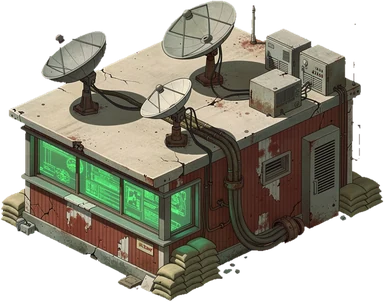
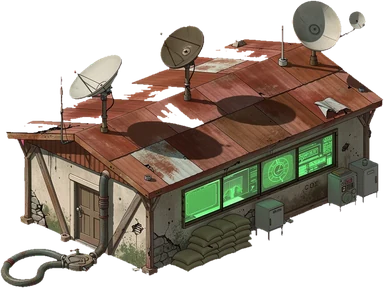
Rebuild four facilities with the scale anchor; fix left-click on guns
The scale anchor works. Power generator, storage, communication center
and radio tower are regenerated with a drum in frame and dimensions in
metres, and they come back in proportion: the generator louvre is now a
roof grille and a wall vent rather than something swallowing the whole
wall. All four drop to 1.0 -- their old corrections were calibrated
against broken art and would push them back out of true. Only the
chemical laboratory is left on the old generation.

Guns never showed a range ring because left-click and right-click are
separate paths and only the right-click one had been taught about
emplacements. The left-click path looked slot 41 up as a building, which
is why the tooltip read level 1 while the popup said level 0. Selection
also has to be by instance id, since several guns share a slot number.

diff --git a/src/main.js b/src/main.js
@@ -815,11 +815,15 @@ async function onClick(e) {
   if (mode === 'world') return onWorldClick(x, y);
 
   const hit = view.pick(x, y);
-  if (!hit) { view.setSelected(null); view.setSelectedCell(null); panel.hide(); requestRender(); return; }
+  if (!hit) { view.setSelected(null); view.setSelectedEmplacement(null); view.setSelectedCell(null); panel.hide(); requestRender(); return; }
   if (hit.empty) {
     await openBuildMenu(hit, e.clientX, e.clientY);   // SOTD-style menu at the plot
     return;
   }
+  // Guns are not facilities. Left-click and right-click are separate paths here,
+  // and routing a gun down the facility one looked up slot 41 as a building --
+  // which is why the tooltip read level 1 while the popup said level 0.
+  if (hit.emplacementId) { openEmplacementMenu(hit, e.clientX, e.clientY); return; }
   await openFacilityMenu(hit.slot, e.clientX, e.clientY);   // context-menu style, like the build menu
 }
 

diff --git a/scripts/prep-sprites.py b/scripts/prep-sprites.py
@@ -71,25 +71,25 @@ ANCHOR_OVERRIDES = {"staff_area": 0.82}
 # lit-window size and equalising it; the ones marked "judged" have too few real windows
 # to measure (a bunker, a warehouse, a scrap yard) and are set from what the building
 # is instead. Re-derive with the measurement in the commit that introduced this table.
+# Sprites regenerated with the scale anchor (drum in frame + stated metres) come out
+# in proportion and sit at 1.0 -- their old corrections were calibrated against
+# broken art and would now push them back out of true.
 SCALE_OVERRIDES = {
     "headquarters":    1.45,   # five storeys; still towers, now at honest window scale
-    "storage":         1.15,   # judged -- warehouse, few windows to measure
     "medical_center":  1.15,
-    "power_generator": 0.80,   # judged -- measure caught rust and the chimney band, not
-                               # glass. Interim only: its louvre and pipework are oversized
-                               # against its OWN walls, which no scale value can correct.
-                               # It is first on the rebuild list for that reason.
     "staff_area":      1.07,
     "troop_quarters":  1.05,   # judged -- long barracks, no lit glass detected
     "garage":          1.03,
+    "power_generator": 1.00,   # rebuilt with the anchor
+    "storage":         1.00,   # rebuilt with the anchor
+    "comm_center":     1.00,   # rebuilt with the anchor
+    "radio_tower":     1.00,   # rebuilt with the anchor
     "life_support":    1.00,
     "fortifications":  1.00,   # judged -- bunker; the measure caught rust, not glass
     "scrapyard":       1.00,   # judged -- forge glow skews the measure
     "research_center": 0.94,
     "toolshop":        0.92,
-    "comm_center":     0.85,   # judged -- single-storey hut, one window band
-    "radio_tower":     0.82,
-    "chem_lab":        0.78,
+    "chem_lab":        0.78,   # last of the rebuild list, still on the old generation
 }
 
 
